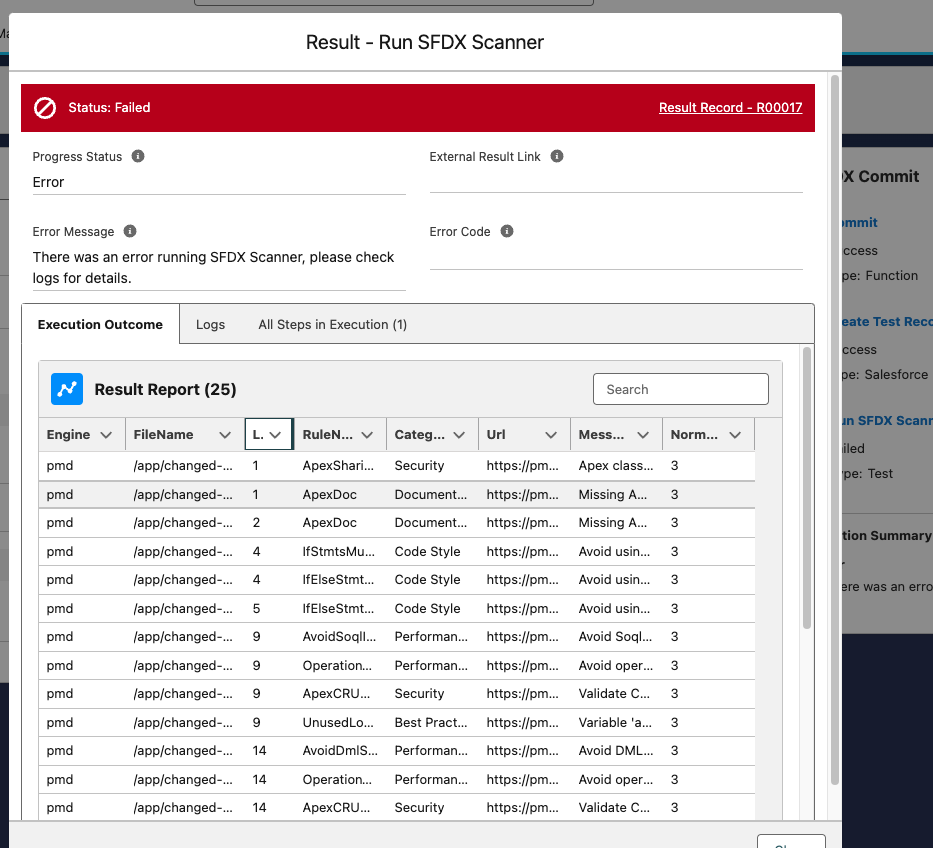
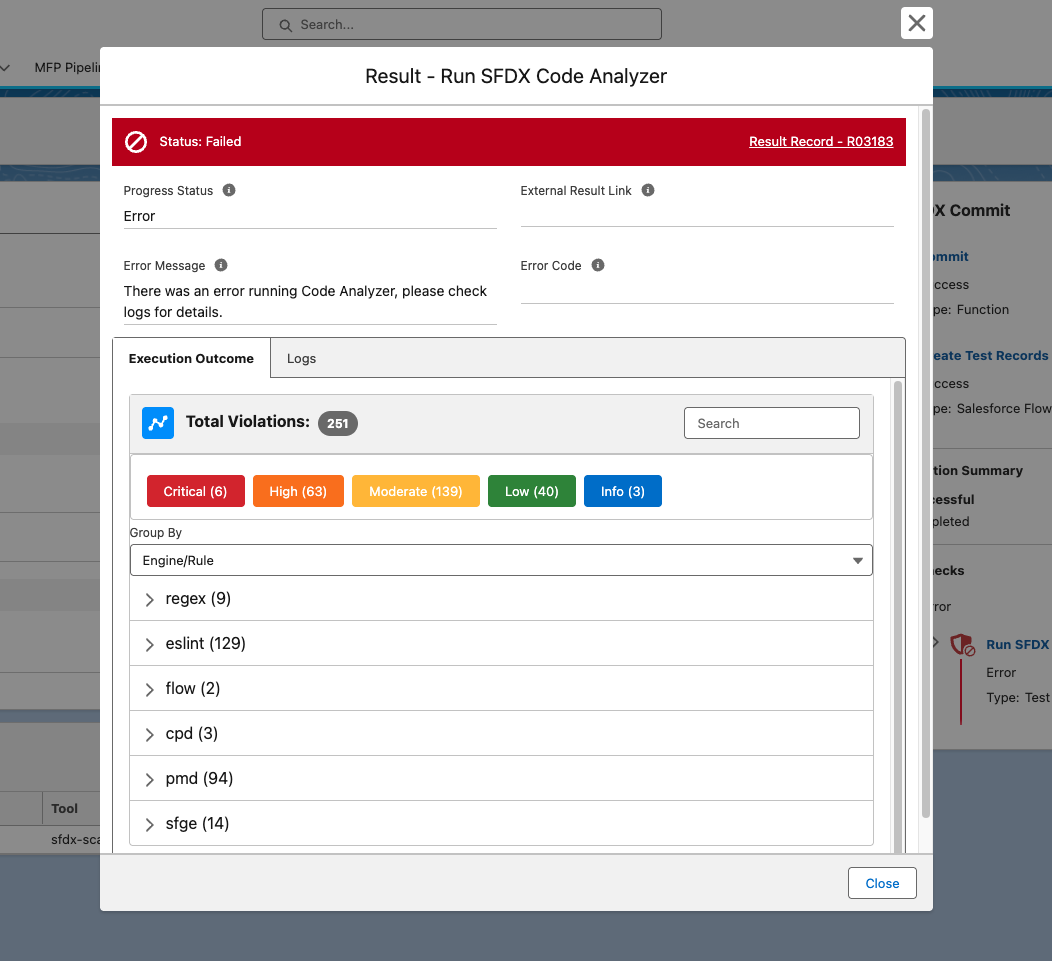
Updated Readme with the v5 changes

diff --git a/README.md b/README.md
@@ -1,90 +1,208 @@
-With this project, you can use Code Analyzer as a quality gate within Copado, and run it on the changed/updated components in your Copado User Story or enforce it before every deployment. All results are available within the Test and Result objects.
+# Code Analyzer for Copado
 
-**Q: What is Salesforce Code Analyzer (Code Analyzer)?**
+With Salesforce Code Analyzer for Copado, you can use Code Analyzer as a **quality gate** in your Copado pipeline. The extension runs analysis only on **changed components**, ensuring efficient code quality and security scanning throughout your development process.
 
-Code Analyzer is a Salesforce CLI plug-in that helps developers write better and more secure code.
+## Is this extension for you?
+Are you a Copado customer? ✅\
+Do you want to use the latest and greatest from Salesforce on quality and security scanning? ✅\
+If the answer is yes, to both of these questions, then yes this is extension is for you.
 
-To inspect your code, Code Analyzer uses multiple code analysis engines, including `PMD, PMD-Appexchange, PMD Copy Paste Detector(CPD), ESLint, RetireJS, and Salesforce Graph Engine`. It identifies potential problems, from inconsistent naming to security vulnerabilities, including advanced vulnerabilities such as lack of Create Read Update Delete/Field-Level Security (CRUD/FLS) checks. Code Analyzer conveys these problems with easy-to-understand results. Run the code analyzer on-command in the CLI, or integrate it into your Continuous Integration/Continuous Development (CI/CD) framework so that you can run it against every code change or on a scheduled basis. Please read more [here.](https://forcedotcom.github.io/sfdx-scanner/en/v3.x/faq/)
+<details>
+<summary>What is Salesforce Code Analyzer?</summary>
 
-# Installing the Extension
+[Salesforce Code Analyzer](https://developer.salesforce.com/docs/platform/salesforce-code-analyzer/guide/code-analyzer.html) is a unified static code analysis tool for checking the quality, security, and performance of Salesforce code. It supports multiple engines: `sfge`, `pmd`, `pmd-appexchange`, `flow scanner`, `cpd`, `eslint`, `retire-js`, and `regex`. The tool includes hundreds of customizable rules and is required for AppExchange security review. You can tailor its behavior and define custom rules using a YAML config file.
 
-## v2.x Release Notes
+</details>
+<br/>
 
-- Updated to support SFDX-Analyzer v3.20.0, through which Copado SFDX Analyzer now support the new `PMD-Appexchange` engine out of the box. [Please review official documentation here](https://forcedotcom.github.io/sfdx-scanner/en/v3.x/architecture/pmd-engine/). This is different from the standard PMD rules that run with regular PMD for Salesforce and introduces 32 new PMD rules specific to Security Review. The rules included in pmd-appexchange may help AppExchange partners prepare their managed packages for security review. This new, optional engine contains rules that help you identify common security review failure points, and fix them before you submit your solution for security review.
+**⚠ DISCLAIMER**
 
-  - ### How do I use pmd-appexchange to prepare my solution for an AppExchange security review?
+**Code Analyzer for Copado is NOT an officially supported tool**
 
-    In addition to the base PMD engine, Code Analyzer also includes a custom PMD variant, pmd-appexchange. The rules included in pmd-appexchange may help AppExchange partners prepare their managed packages for security review. This new, optional engine contains rules that help you identify common security review failure points, and fix them before you submit your solution. This will be enabled by default in v2.1.0+ of Copado SFDX Analyzer. You can verify this by going into `Job Templates > Run SFDX Codeanalyzer QIF > Steps > Run SFDX Code Analyzer > Engine`
+👷 Use it at your own risk
 
-    ![Engines in Job Step](./images/engines-job-step.png)
+<details>
+<summary>Table of Contents</summary>
 
-- Results are now shown in a LWC Component on the Result Modal, no need to download the HTML file to review errors.
+- [Getting Started](#-getting-started)
+  - [Pre-Requisites](#pre-requisites)
+  - [Installation](#installation)
+  - [Post-Installation](#post-installation)
+    - [Picklist Values](#picklist-values)
+    - [Create Extension Records](#create-extension-records)
+    - [Create the Quality Gate](#create-the-quality-gate)
+    - [Configure Pipeline System Property (Optional, but recommended)](#configure-pipeline-system-property-optional-but-recommended)
+    - [Customize other configuration (Optional)](#customize-other-configuration-optional)
+- [Testing the setup](#testing-the-setup)
+- [In-depth setup and walkthrough examples](#in-depth-setup-and-walkthrough-examples)
+  - [Trigger Points](#trigger-points)
+    - [After Commit](#after-commit)
+    - [Before Deployment](#before-deployment)
+    - [After Promotion](#after-promotion)
+  - [Reviewing the scan results](#reviewing-the-scan-results)
+    - [Engine and Rule Grouping](#engine-and-rule-grouping)
+    - [Metadata Type and Filename Grouping](#metadata-type-and-filename-grouping)
+    - [Severity Filters and Search](#severity-filters-and-search)
+    - [Open up the Result record](#open-up-the-result-record)
+- [v5 Release Notes](#v5-release-notes)
+  - [🚀 New Features](#-new-features)
+    - [Upgrade to Code Analyzer 5.3](#upgrade-to-code-analyzer-53)
+    - [Enhanced Results Display](#enhanced-results-display)
+  - [Migration Guide](#migration-guide)
+    - [Delete DFA related metadata](#delete-dfa-related-metadata)
+</details>
 
-- Removed previously used Flows and Apex Classes from Job Templates to make the extension lightweight.
 
-## Upgrading from 1.x version to 2.x version
-
-- The new 2.x version relies on some new capabalities by the Copado Deployer and Quality tools package, hence minimum requirements have changed. Please upgrade those packages to the required version as listed in the [Pre-requisites](#pre-requisites) section
-
-- Upgrading to a new version will overwrite any custom values that were set on the `severityThreshold` and `engine` parameter. Please save them before upgrading and reset after the upgrade.
-
-- After upgrading, navigate to the “Copado Extensions” tab, select “CopadoSFDXAnalyzer” and press the button “Generate Extension Records”.
+#  Getting Started
 
 ## Pre-Requisites
-* Install Copado v21.14 or higher
-* Install Copado Quality Tools extension v1.42 or higher
-* Install Copado DX Extension v4.19 or higher
-* Install the [latest version of Copado SFDX Analyzer](https://success.copado.com/s/listing-detail?recordId=a545p000000Xx1hAAC) from Copado's DevOps Exchange.
+* Be a Copado CICD Customer on Copado Source Format Pipelines.
+* Minimum Copado Deployer version = 25.0
+* Minimum Copado Quality Tools version = 4.0
 
-## Picklist Values
+## Installation
+- Install the [latest version of Copado SFDX Analyzer](https://success.copado.com/s/listing-detail?recordId=a545p000000Xx1hAAC) from Copado's DevOps Exchange.
 
-* Create the Following Picklist values
-* Object: Extension Configuration, Field: Extension Tool, Value: `sfdx-scanner` & `sfdx-scanner-dfa`
-* Picklist Value Set: Copado Test Tool, Value: `sfdx-scanner` & `sfdx-scanner-dfa`
+- If you're upgrading for version 2.x to this latest version 5.x, then follow the [Migration Guide](#migration-guide), and after following it come back to the [Quality Gates section](#create-the-quality-gate).
 
-## Create The Functions and Job Templates
-Navigate to the “Copado Extensions” tab, select “CopadoSFDXAnalyzer” and press the button “Generate Extension Records”.
+## Post-Installation
+
+### Picklist Values
+Create the Following Picklist values
+* Setup --> Object Manager --> Extension Configuration --> Field: Extension Tool --> Value: `sfdx-scanner`
+* Setup --> Picklist Value Set --> Copado Test Tool --> Value: `sfdx-scanner`
+
+### Create Extension Records
+Navigate to the “Copado Extensions” tab from the App Launcher, select “CopadoSFDXAnalyzer” and press the button “Generate Extension Records”.
 
 ![Generate Extension Records](./images/generate-extension-records.png)
 
-## Configure Function Parameters
+### Create the Quality Gate
+* Navigate to Pipeline Builder.
+* Go to the Quality Gates sub-section from the left-hand side pane.
+* Click on `Create Quality Gate` button, and choose `sfdx-scanner` from the list.
+* You can choose to create it `After Commit - Block`, `After Promotion - Report` or `Before Deployment - Block` depending on the behavior you need.
+* You can configure the environment(s) and/or stage(s) the quality gate should be applied to.
 
-![Function Parameters](./images/function-parameters.png)
+  ![Configure Quality Gate](./images/quality-gate-setup.gif)
 
-* `severityThreshold` - Throws an error when violations are found with equal or greater severity than the provided value. Normalized severity values are: 1 (high), 2 (moderate), and 3 (low). Exit code is the most severe violation. The default OOB value set is `2`. Feel free to edit it as per your project needs.
+* Here's an example of how you can create an after commit quality gate, running on `Service DX Dev 1` environment, with **Advanced filters** so that it is only triggered when at least one metadata item that matches the type **Apex** (`ApexClass`, `ApexTrigger`, `ApexComponent`, `ApexPage`), **LWC, Flow, Messaging Channel** has been committed, and thus only running it when required.
+  ![Configure Quality Gate](./images/create-quality-gate-rule.png)
 
-* `engine` - Specifies one or more engines to run. Submit multiple values as a comma-separated list. Valid values need to be from either of these `eslint,eslint-lwc,eslint-typescript,pmd,retire-js,cpd`.
-The default OOB value is set to `eslint-lwc,pmd,cpd,retire-js,pmd-appexchange`. Feel free to edit it as per your project needs.
+### Configure Pipeline System Property (Optional, but recommended)
+![System Property](./images/severity-threshold-system-property.png)
 
-## Configure the Quality Gate
+* Go to Pipelines from the App Launcher --> open your pipeline --> Settings sub tab --> Click New on System Property --> Property Name and API Name: `sfdx_scanner_severityThreshold`.
+* Valid severity values are: 1 (Critical), 2 (High), 3 (Moderate), 4 (Low), or 5 (Info).
+* If this property is not set, or set incorrectly, then it'll default to severity 2 (High).
+* The Quality gate will throw an error when violations are found with equal or greater severity than the provided value.
+* Leave other values blank, and hit save.
 
-### Create the Quality Gate Rule
-Navigate to the Quality Gate Rules tab and create a new record as follows. The global value set Test Tool should have a value for `SFDX Scanner` as part of this package. It can be created manually if necessary.
+### Customize other configuration (Optional)
+Code Analyzer allows a lot of customization options such as turning engines on/off, adding custom rules, change severity of existing rules, to get started add `code-analyzer.yml` in the root of your project, like a sample is added [here](./code-analyzer.yml), and then the Quality Gate will automatically pick up your configuration. To learn about its complete setup, refer to the [customizing configuration documentation](https://developer.salesforce.com/docs/platform/salesforce-code-analyzer/guide/config-custom.html)
 
-![Configure Quality Gate](./images/create-quality-gate-rule.png)
+## Testing the setup
+If you have set up the `After Commit` Quality Gate, like the example in the above configurations, then just perform a commit which contains ApexClass/LWC/ApexComponents/Flows/Messagning Channels on a user story. that is tied to the environment/stage in which your Quality Gate is set up, and the Commit Action will invoke the `Code Analyzer` after every commit.
 
-**Repeat these steps to create a QG for `SFDX-Scanner-DFA` as well.**
+Here's some [test-data](./test-data/) that can be used to test the Quality Gate, and a sample [configuration file](./code-analyzer.yml).
 
-**After that you are all set.**
+# In-depth setup and walkthrough examples
 
-To test the configuration, just perform a commit which contains ApexClass/LWC/AuraBundle on a user story on a SFDX platform Pipeline, and the Commit Action will enforce `SFDX Analyzer` after every commit.
+## Trigger Points
+You can configure Code Analyzer to run at different stages of your deployment pipeline. The supported trigger points are:
 
-Here's some [test-data](./test-data/) that can be used to test both the Quality Gates
+### After Commit
 
-## Demo Screenshots
+<table>
+<tr>
+<td><a href="./images/failed-commit-sfdx.png" target="_blank"><img src="./images/failed-commit-sfdx.png" alt="Failed Commit" width="400"></a></td>
+<td><a href="./images/after-commit-block-promotion.png" target="_blank"><img src="./images/after-commit-block-promotion.png" alt="Block Promotion" width="400"></a></td>
+</tr>
+</table>
 
-### Successful run with no violations and it's result![Successful Commit](./images/successful-commit.png)
-![No Violations](./images/no-violations.png)
+Run Code Analyzer after every commit that happens on your User Stories. This allows you to shift left in your quality and security scanning journey, and if the latest commit on a User Story has failed due to violations, it won't be allowed to be promoted to the next environment.
 
-### Run with Violations
-![Failed Commit](./images/failed-commit-sfdx.png)
-![Violations Modal](./images/violations-modal-sfdx.png)
+### Before Deployment
+![Before Deployment Block](./images/before-deployment-block.png)
+Run Code Analyzer before deployment as a **quality gate**. This analyzes all User Stories in the deployment together. If violations are found, the deployment is blocked.
 
-The Result record can be further opened to read the violations better, as well as wrap text and search to filter violations.
+### After Promotion
+![After Promotion Report](./images/after-promotion-report.png)
+Run Code Analyzer after promotion for **reporting purposes only**. This provides visibility into code quality across all User Stories in the deployment without blocking the process.
 
-![Result Record](./images/violations-result-sfdx.png)
 
-![Wrapped Text](./images/violations-wrapped-search-sfdx.png)
+> **Key Difference**: While User Story analysis runs on individual user stories, deployment-level analysis evaluates the **collective impact** of all User Stories in the deployment, providing a comprehensive view of code quality across the entire Promotion.
 
-### Run with Violations for DFA
-![Result Record DFA](./images/violations-modal-dfa.png)
+## Reviewing the scan results
+
+
+### Engine and Rule Grouping
+![Engine/Rule Grouping](./images/violations-gpengine-modal.gif)
+
+There are two groupings for the results, the first one as seen in the image above is by **Engine/Rule**. This allows you to view the violations grouped by the Engine, and then by Rule. This is helpful to see just specific engine or rule errors.
+
+### Metadata Type and Filename Grouping
+![Type/FileName Grouping](./images/violations-gptype-modal.gif)
+
+You can also switch to the **Type/Filename** grouping from the drop down, this is better if you just want to focus on specific metadata types, or look into all errors in a single file.
+
+### Severity Filters and Search
+![Filter/Search](./images/violations-filter-search.gif)
+
+You can use the different severity filters and search box to narrow down the results.
+
+### Open up the Result record
+![Result Record](./images/violations-result-record.gif)
+
+The Result record can be further opened to increase the screen real estate making reading the violations better, as well as use the different severity filters, search and groupings.
+
+
+# v5 Release Notes
+
+## 🚀 New Features
+
+### Upgrade to Code Analyzer 5.3
+- **New Engines**: Regex, Flow are the new engines that are supported. [See all supported engines](https://developer.salesforce.com/docs/platform/salesforce-code-analyzer/guide/engines.html)
+- **SFGE**: Can be run with a single quality gate, no need to create another Quality Gate to run Data Flow Analysis.
+- **Custom Config File** - v5 introduces a configuration YAML file (code-analyzer.yml) which you can use to configure top-level properties and customize rules and engines, including adding custom rules. [See Customize the v5 Configuration for details.](https://developer.salesforce.com/docs/platform/salesforce-code-analyzer/guide/config-custom.html)
+
+### Enhanced Results Display
+- **Clean, Modern Interface**: Results are displayed in an organized, easy-to-read format within the Result Modal
+- **Smart Organization**: Results are automatically grouped and organized for easy navigation
+- **Quick Search**: Find specific violations instantly by typing in the search box - searches across files, rules, messages, engines.
+- **Severity Filtering**: Click on colored buttons to filter by severity level (Critical, High, Moderate, Low, Info)
+- **Dynamic Counts**: See real-time counts of violations that update as you filter
+- **One-Click Reset**: Clear all filters with a single button click
+- **Group by Engine**: View results organized by analysis tool (PMD, ESLint, etc.) with rule breakdowns
+- **Group by File Type**: View results organized by metadata type (Apex classes, LWC components, etc.) and file name breakdown.
+- **Collapsible Sections**: Expand and collapse sections to focus on what matters most
+- **Detailed Information**: See file paths, line numbers, violation messages, and rule documentation links.
+
+## Migration Guide
+- If you're upgrading from 2.x of Code Analyzer to version to 5.x version, then there are certain changes you'll need to do.
+
+- The new 5.x version relies on some new capabalities by the Copado Deployer and Quality tools package, hence minimum requirements have changed. Please upgrade those packages to the required version as listed in the [Pre-requisites](#pre-requisites) section.
+
+- After upgrading, navigate to the “Copado Extensions” tab, select “CopadoSFDXAnalyzer” and press the button “Generate Extension Records”.
+
+- After Generating the new records, go to "Functions > Run SFDX Code Analyzer QIF > Configuration sub-tab", and if the Callback Type is set to Apex, set it to 'None'.
+
+- You likely are using the legacy Quality Gate Rules. Delete the older Quality Gate Rules, and Quality Gate Rule Conditions by going to the Quality Gates tab, and searching for the SFDX Scanner Quality Gates you had created. There should likely be *two*, one for DFA, and one for other engines. So repeat this step for the other Quality Gate Rule as well.
+
+  ![Legacy QGR](./images/legacy-quality-gate-rule.png)
+
+### Delete DFA related metadata
+DFA analysis using the `SFGE` engine, is now part of the main quality gate, hence we need to delete the older references.
+- Go to App Launcher --> Functions -->  Run SFDX Code Analyzer DFA QIF --> Delete.
+
+- Go to App Launcher --> Job Templates --> Run SFDX Codeanalyzer DFA QIF --> Switch to steps sub tab --> Delete all the steps one by one --> Finally delete the Job Template.
+
+- Go to App Launcher --> Extension Configuration --> SFDX Scanner Config DFA --> Deactivate --> Delete
+
+- Go to setup --> Picklist Value Sets --> Copado Test Tool --> Delete `sfdx-scanner-dfa` value --> Replace with blank.
+
+- Go to setup --> Object Manager --> Extension Configuration --> Field: Extension Tool --> Delete `sfdx-scanner-dfa` value --> Replace with blank.
+
+- Once all of this is deleted, go back to create [new Quality Gates](#create-the-quality-gate) section and continue.
+
+
